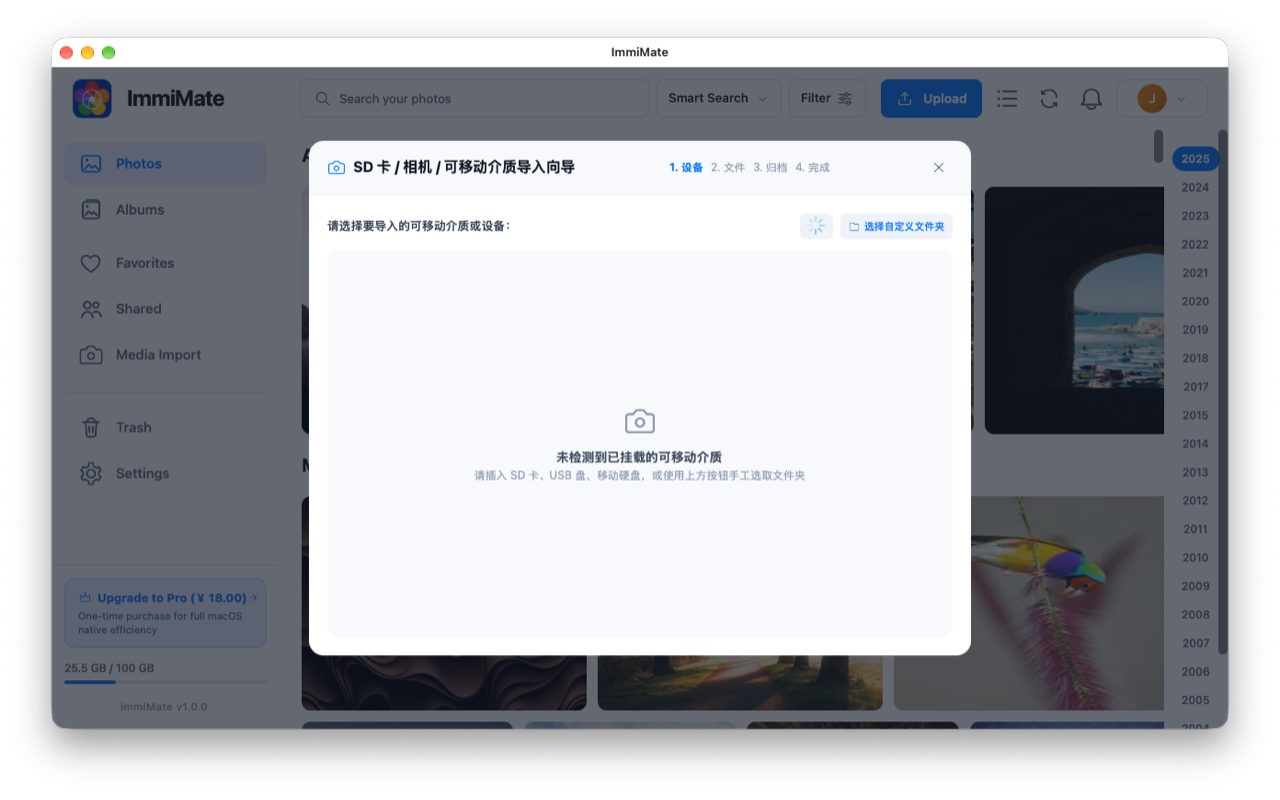
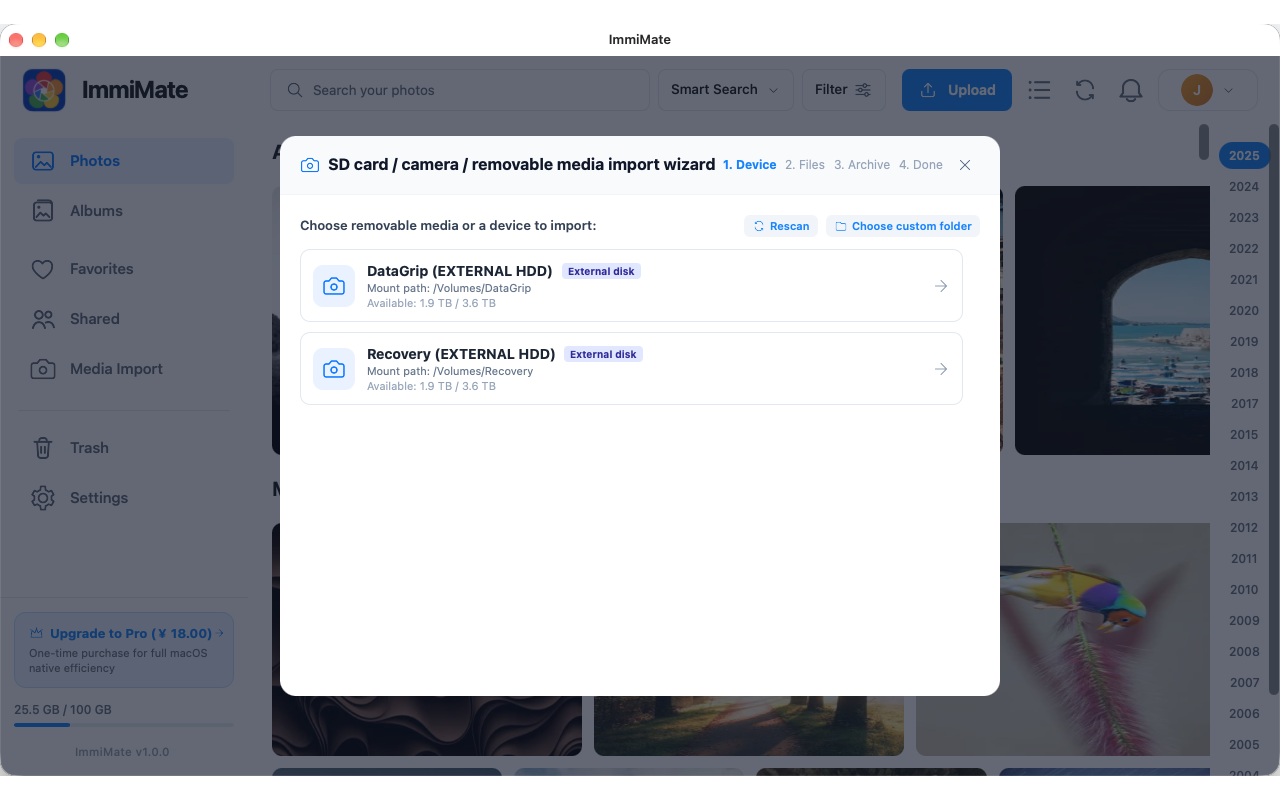
fix: localize media import screenshot and preserve full images

diff --git a/styles.css b/styles.css
@@ -82,8 +82,8 @@ h1 em { color: var(--blue); font-style: normal; }
 .window-title b { color: #b0b8c5; }
 .window-status { display: inline-flex; align-items: center; gap: 5px; color: #6e7d8f; font-size: 0.62rem; white-space: nowrap; }
 .window-status i, .native-dot { width: 6px; height: 6px; border-radius: 50%; background: #36be70; }
-.window-image { overflow: hidden; aspect-ratio: 1.6; background: #f3f5f8; }
-.window-image img { width: 100%; height: 100%; object-fit: cover; object-position: center; }
+.window-image { overflow: hidden; background: #f3f5f8; }
+.window-image img { display: block; width: 100%; height: auto; object-fit: contain; object-position: center; }
 .floating-card { position: absolute; display: flex; align-items: center; gap: 10px; padding: 12px 14px; border: 1px solid rgba(255, 255, 255, 0.9); border-radius: 15px; background: rgba(255, 255, 255, 0.92); box-shadow: 0 18px 34px rgba(27, 45, 72, 0.15); backdrop-filter: blur(14px); }
 .floating-card strong, .floating-card small { display: block; }
 .floating-card strong { font-size: 0.78rem; }
@@ -122,8 +122,8 @@ h1 em { color: var(--blue); font-style: normal; }
 .screenshot-grid { display: grid; grid-template-columns: repeat(2, 1fr); gap: 34px 18px; }
 .shot { min-width: 0; margin: 0; }
 .shot-image { overflow: hidden; border: 1px solid #dfe6ef; border-radius: 18px; background: #e9edf3; box-shadow: 0 14px 34px rgba(27, 45, 72, 0.09); }
-.shot-image img { width: 100%; aspect-ratio: 1.6; object-fit: cover; transition: transform 420ms ease; }
-.shot:hover .shot-image img { transform: scale(1.018); }
+.shot-image img { display: block; width: 100%; height: auto; object-fit: contain; object-position: center; }
+.shot:hover .shot-image { box-shadow: 0 18px 40px rgba(27, 45, 72, 0.13); }
 .shot figcaption { display: grid; grid-template-columns: auto 1fr; column-gap: 12px; padding: 16px 4px 0; }
 .shot figcaption span { grid-row: span 2; color: var(--blue); font-size: 0.68rem; font-weight: 850; letter-spacing: 0.12em; text-transform: uppercase; }
 .shot figcaption strong { font-size: 1.03rem; letter-spacing: -0.02em; }
